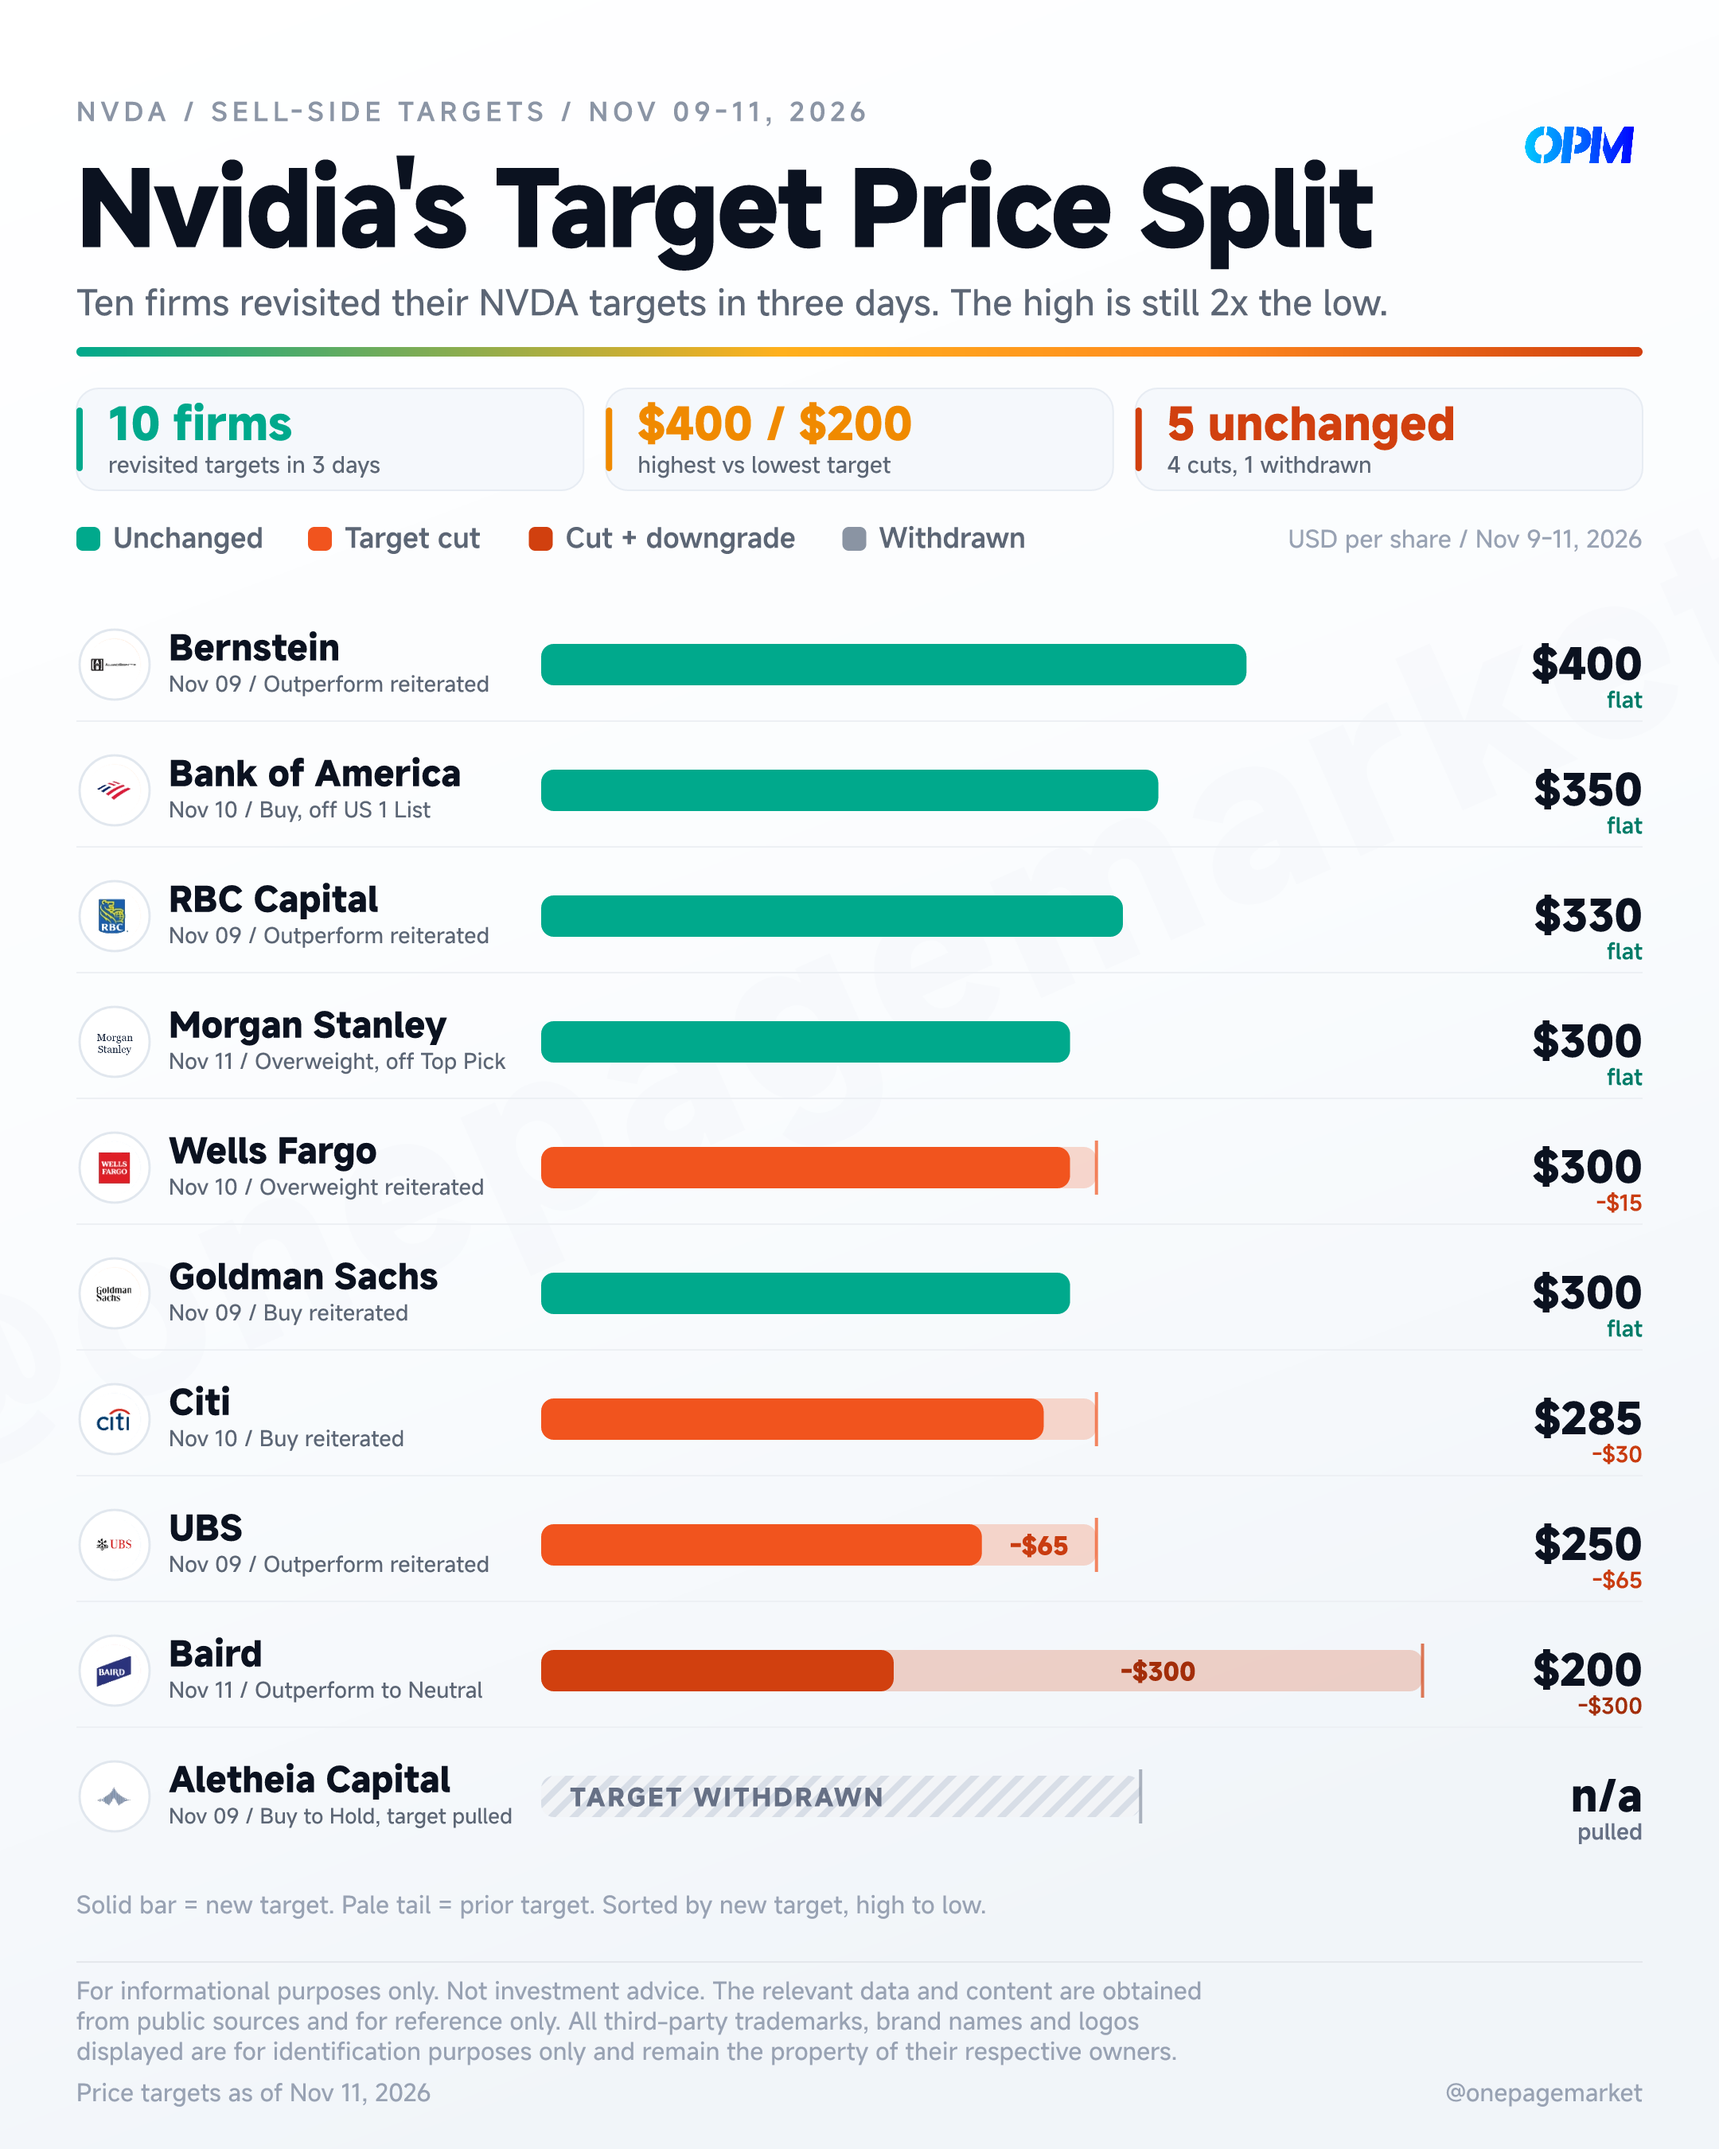
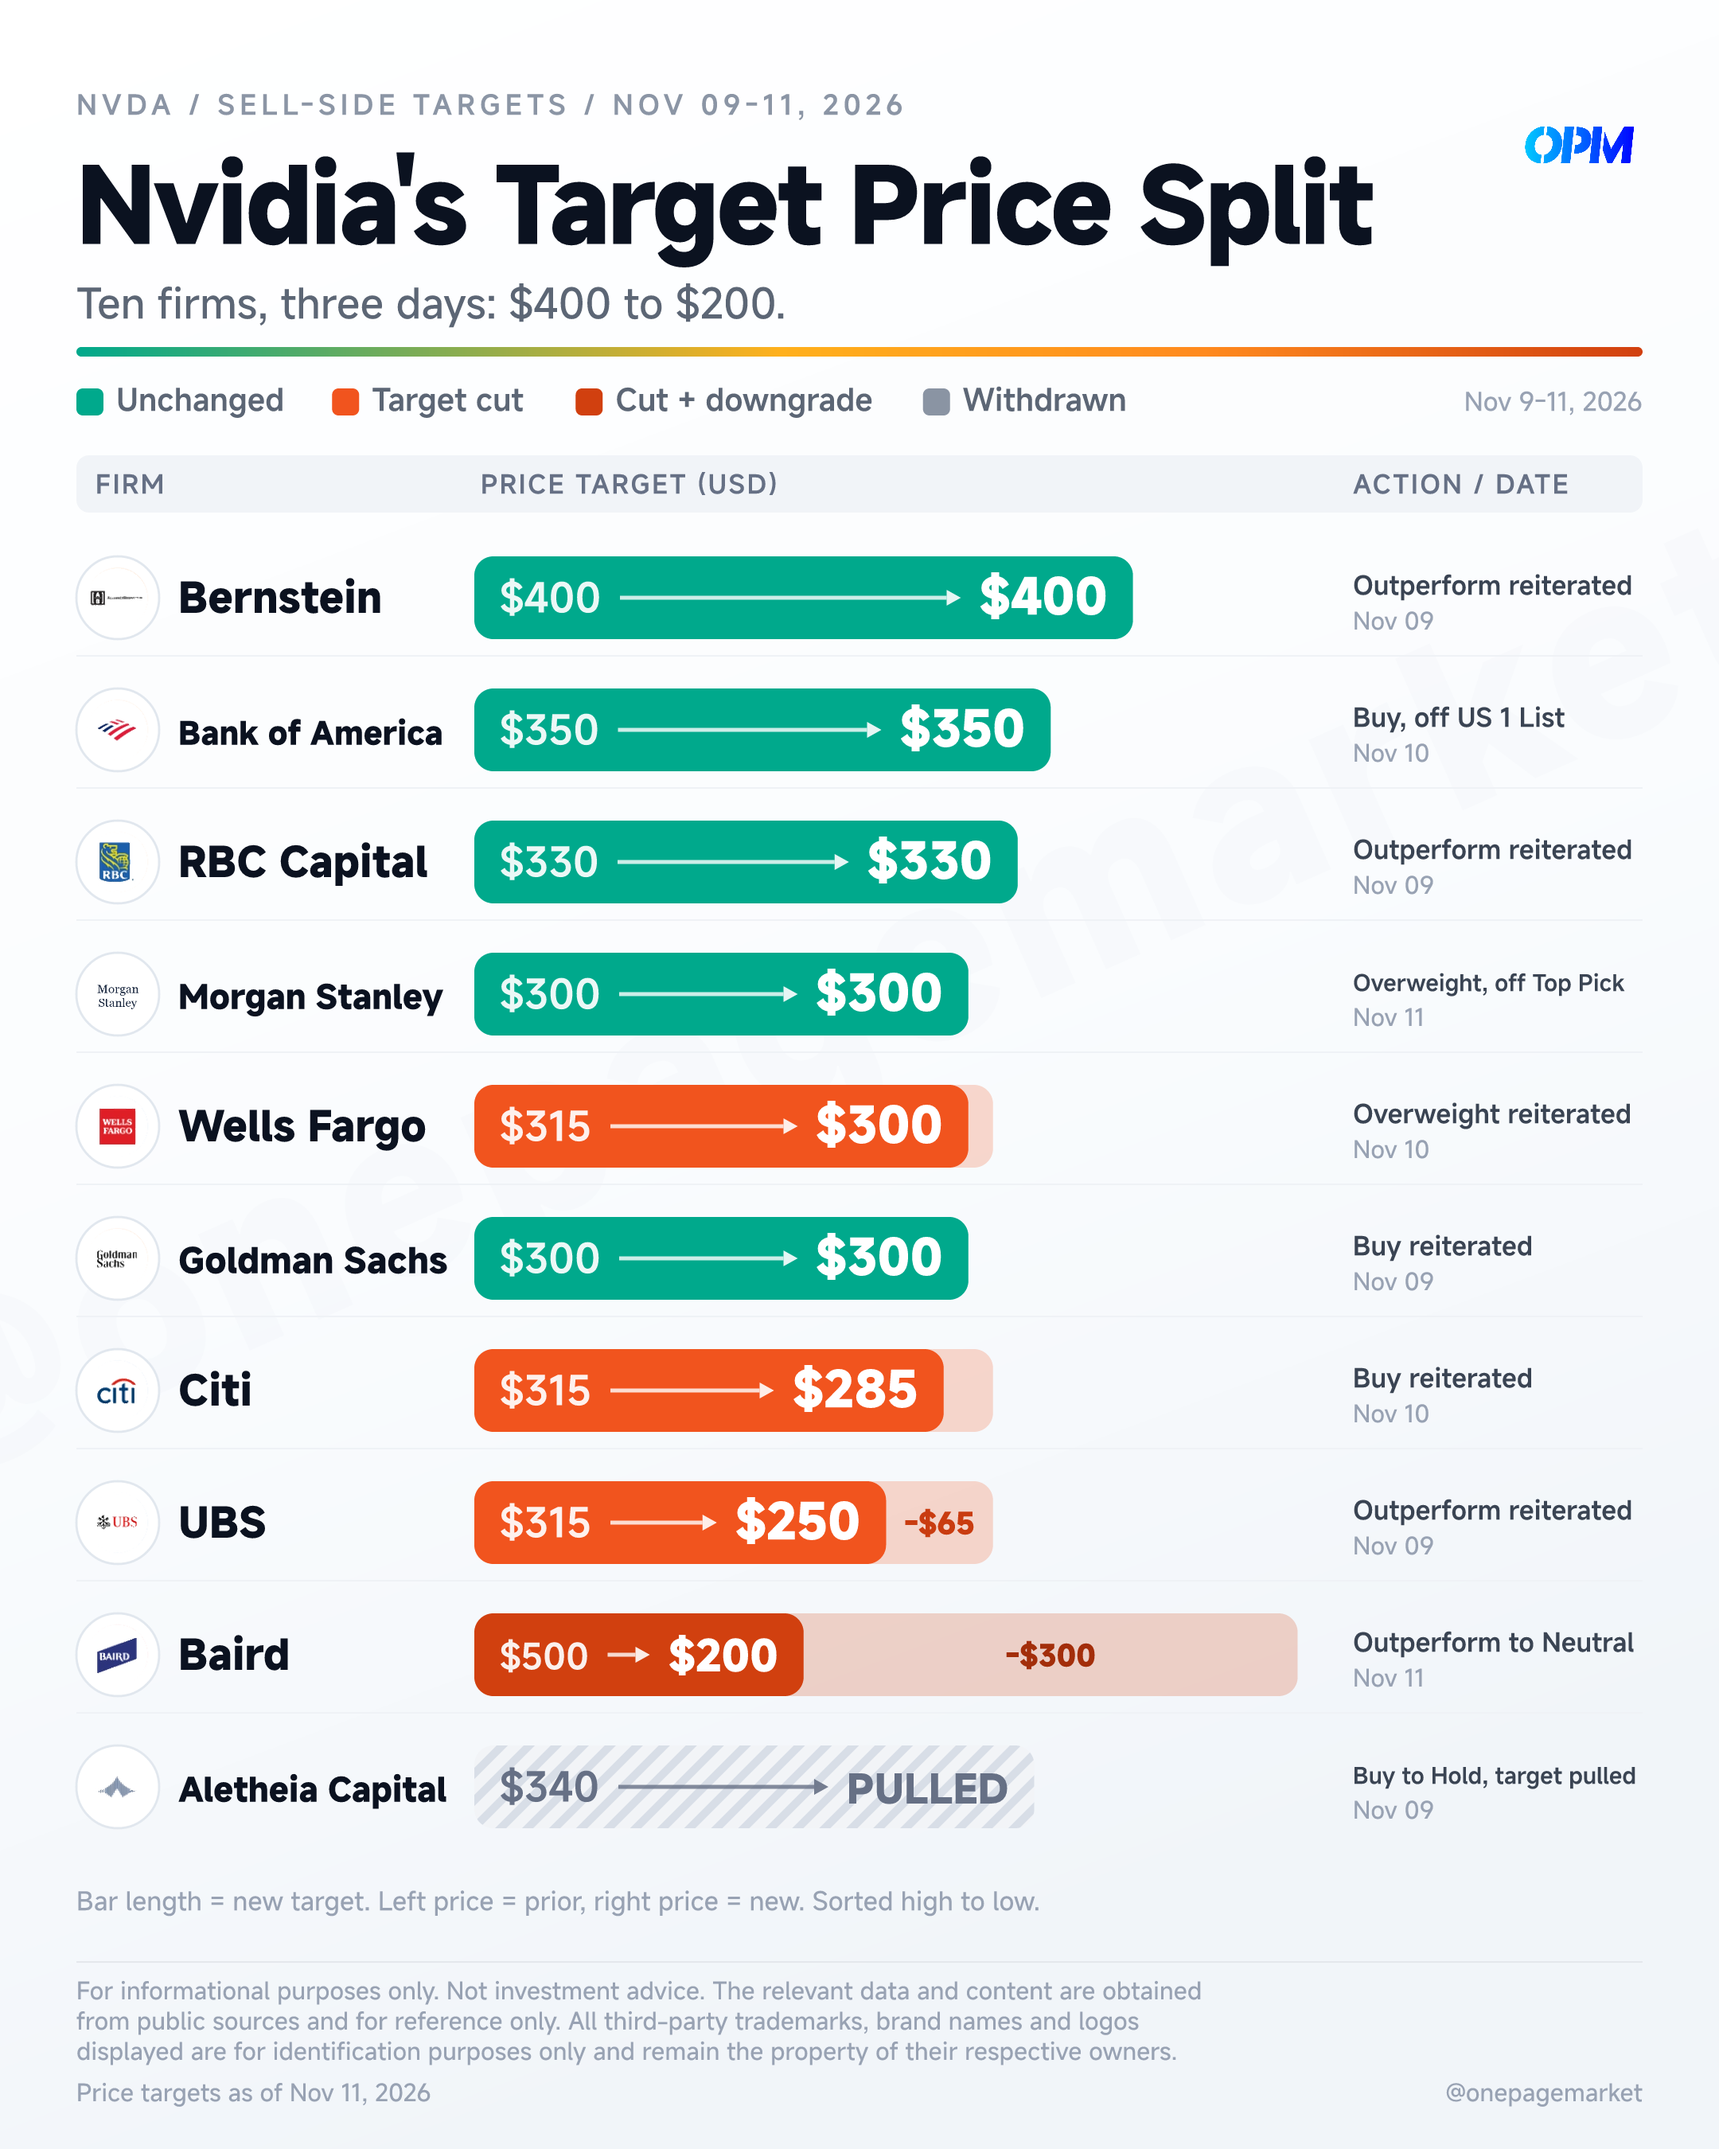
card: Nvidia target price split v2, Futu-style before/after bars

diff --git a/scripts/build_nvda_targets.js b/scripts/build_nvda_targets.js
@@ -2,9 +2,12 @@
  * OPM 專題卡 · Nvidia Sell-Side Price Targets (Nov 9-11, 2026) · 1080×1350
  *
  * 🔴 OPM 是純英文號：卡片上不出現任何中文；ASCII 為主，避免子集字體缺字。
- * 版式（2026-11-10 阿澤欽定「圖形化優先」）：右上 OPM 標識 + 3 顆 KPI 膠囊 +
- *   主圖＝10 家機構「舊目標價淡尾 / 新目標價實條」橫向對比（圓形機構 logo 徽章），
- *   底部小字註解 + 統一免責聲明。純淺色底。
+ * 版式（2026-11-12 阿澤改版指定）：
+ *   - 標題下不放三顆並列 KPI 膠囊（「毫無必要」）。
+ *   - 排版參考富途原圖：每列一個加粗大色條，條內左＝舊目標價、右＝新目標價、
+ *     中間箭頭，右側獨立欄放評級動作＋調整日期，一眼看出「舊→新」。
+ *   - 條高為初版 2 倍（26 → 52）；條長仍按新目標價縮放，露出的淡尾＝舊價多出的部分。
+ *   - 條尾不畫任何豎線刻度。字號全面放大。
  *
  * 數據：data/nvda-targets.json（轉譯自阿澤提供的富途牛牛機構目標價整理圖，
  *       原圖標註 Reuters / MarketBeat / Stock Analysis，2026-11-09 ~ 11-11）。
@@ -26,7 +29,7 @@ const D = JSON.parse(fs.readFileSync(path.join(BASE, 'data', 'nvda-targets.json'
 const W = 1080, H = 1350, M = 48, CW = W - M * 2;
 const C = {
   bg: '#FFFFFF', ink: '#0B1220', gray: '#5C6675', dim: '#98A2B3',
-  line: '#E4E7EC', body: '#3A4453', hair: '#EDF0F4',
+  line: '#E4E7EC', body: '#3A4453', hair: '#EFF2F6',
 };
 const FONT = 'MiSans';
 const handle = '@onepagemarket';
@@ -67,8 +70,8 @@ defs.push(`<linearGradient id="bgG" x1="0" y1="0" x2="0.3" y2="1">
 defs.push(`<linearGradient id="ruleG" x1="0" y1="0" x2="1" y2="0">
   <stop offset="0" stop-color="#00A98C"/><stop offset="0.45" stop-color="#FFB01C"/>
   <stop offset="0.72" stop-color="#FF8A1E"/><stop offset="1" stop-color="#D1400F"/></linearGradient>`);
-defs.push(`<pattern id="hatch" width="10" height="10" patternUnits="userSpaceOnUse" patternTransform="rotate(45)">
-  <rect width="10" height="10" fill="#F2F4F7"/><rect width="4" height="10" fill="#D8DEE7"/></pattern>`);
+defs.push(`<pattern id="hatch" width="12" height="12" patternUnits="userSpaceOnUse" patternTransform="rotate(45)">
+  <rect width="12" height="12" fill="#F2F4F7"/><rect width="5" height="12" fill="#D8DEE7"/></pattern>`);
 
 const a = [];
 a.push(`<svg xmlns="http://www.w3.org/2000/svg" width="${W}" height="${H}" viewBox="0 0 ${W} ${H}">`);
@@ -77,105 +80,114 @@ a.push(`<g transform="translate(${W / 2} ${H / 2}) rotate(-24)" opacity="0.03">
   ${t(0, 0, handle, { size: 132, weight: 700, anchor: 'middle', ls: 6, fill: '#94A3B8' })}</g>`);
 brandMark(a);
 
-/* ---------------- 頁首 ---------------- */
-a.push(t(M, 76, D.kicker, { size: 16, weight: 500, fill: '#8B95A5', ls: 3 }));
-const TS = 66, AVAIL_T = CW - 104;
-a.push(t(M, 154, D.title, { size: fit(D.title, TS, AVAIL_T), weight: 700, ls: -1.6 }));
-a.push(t(M, 198, D.subtitle, { size: fit(D.subtitle, 22, CW, 400), fill: C.gray }));
+/* ---------------- 頁首（無 KPI 膠囊） ---------------- */
+a.push(t(M, 72, D.kicker, { size: 17, weight: 500, fill: '#8B95A5', ls: 3 }));
+const TS = 76, AVAIL_T = CW - 104;
+a.push(t(M, 152, D.title, { size: fit(D.title, TS, AVAIL_T), weight: 700, ls: -1.6 }));
+a.push(t(M, 200, D.subtitle, { size: fit(D.subtitle, 26, CW, 400), fill: C.gray }));
 a.push(rr(M, 218, CW, 6, 3, 'url(#ruleG)'));
-
-/* ---------------- KPI 膠囊 ×3 ---------------- */
-{
-  const KY = 244, KH = 64, KG = 14, KW = (CW - KG * 2) / 3;
-  const accents = ['#00A98C', '#F08A00', '#D1400F'];
-  D.kpis.forEach((k, i) => {
-    const x = M + i * (KW + KG);
-    a.push(rr(x, KY, KW, KH, 14, '#F5F8FC', 'stroke="#E7ECF3" stroke-width="1"'));
-    a.push(rr(x, KY + 12, 4, KH - 24, 2, accents[i]));
-    a.push(t(x + 20, KY + 32, k.value, { size: 27, weight: 700, fill: accents[i] }));
-    a.push(t(x + 20, KY + 53, k.label, { size: fit(k.label, 14, KW - 34, 400), fill: C.gray }));
-  });
-}
 
 /* ---------------- 圖例 ---------------- */
 {
-  const y = 344;
+  const y = 258;
   let x = M;
   D.legend.forEach((it) => {
-    a.push(rr(x, y - 13, 15, 15, 4, it.color));
-    const sz = fit(it.label, 17, 190, 500);
-    a.push(t(x + 23, y, it.label, { size: sz, weight: 500, fill: C.gray }));
-    x += 23 + tw(it.label, sz, 500) + 28;
+    a.push(rr(x, y - 14, 17, 17, 4, it.color));
+    const sz = fit(it.label, 19, 200, 500);
+    a.push(t(x + 25, y, it.label, { size: sz, weight: 500, fill: C.gray }));
+    x += 25 + tw(it.label, sz, 500) + 30;
   });
-  a.push(t(W - M, y, D.legend_right, { size: 15, fill: C.dim, anchor: 'end' }));
+  a.push(t(W - M, y, D.legend_right, { size: 16, fill: C.dim, anchor: 'end' }));
 }
 
-/* ---------------- 主圖：10 條「舊→新」橫向對比 ---------------- */
-const ROW_Y0 = 380, ROW_H = 79, BH = 26;
-const BX0 = M + 292, BX1 = W - M - 116, BW = BX1 - BX0;
-const NAME_X = M + 58, NAME_W = BX0 - NAME_X - 16;
+/* ---------------- 表頭（富途式分欄） ---------------- */
+const ROW_Y0 = 334, ROW_H = 83, BH = 52;          // BH = 初版 26 的 2 倍
+const BX0 = M + 250, BX1 = W - M - 196, BW = BX1 - BX0;
+const NAME_X = M + 64, NAME_W = BX0 - NAME_X - 14;
+const ACT_X = BX1 + 14, ACT_W = W - M - ACT_X;
 const SCALE = D.scale_max;
+a.push(rr(M, 286, CW, 36, 8, '#F1F4F8'));
+a.push(t(M + 12, 310, D.table_head[0], { size: 16, weight: 500, fill: '#667085', ls: 1.2 }));
+a.push(t(BX0 + 4, 310, D.table_head[1], { size: 16, weight: 500, fill: '#667085', ls: 1.2 }));
+a.push(t(ACT_X, 310, D.table_head[2], { size: 16, weight: 500, fill: '#667085', ls: 1.2 }));
 
 function badge(cx, cy, key, color) {
-  const r = 22;
+  const r = 26;
   a.push(`<circle cx="${cx}" cy="${cy}" r="${r}" fill="#FFFFFF" stroke="#E1E7EE" stroke-width="1.4"/>`);
   const uri = FIRM_LOGO[key];
   if (uri) {
-    const s = 39;
+    const s = 45;
     a.push(`<image x="${cx - s / 2}" y="${cy - s / 2}" width="${s}" height="${s}" href="${uri}" image-rendering="optimizeQuality"/>`);
   } else {
-    a.push(t(cx, cy + 7, key.slice(0, 2).toUpperCase(), { size: 15, weight: 700, fill: color, anchor: 'middle' }));
+    a.push(t(cx, cy + 8, key.slice(0, 2).toUpperCase(), { size: 17, weight: 700, fill: color, anchor: 'middle' }));
+  }
+}
+
+/* 條內「舊價 → 新價」箭頭（純 SVG，不靠字體符號） */
+function arrow(x1, x2, cy, color, size) {
+  if (x2 - x1 >= 18) {
+    a.push(`<line x1="${x1.toFixed(1)}" y1="${cy}" x2="${(x2 - 9).toFixed(1)}" y2="${cy}" stroke="${color}" stroke-width="2.4" opacity="0.8"/>`);
+    a.push(`<polygon points="${(x2 - 9).toFixed(1)},${cy - 5} ${x2.toFixed(1)},${cy} ${(x2 - 9).toFixed(1)},${cy + 5}" fill="${color}" opacity="0.9"/>`);
+  } else {
+    a.push(t((x1 + x2) / 2, cy + 9, '>', { size, weight: 700, fill: color, anchor: 'middle' }));
   }
 }
 
 D.firms.forEach((f, i) => {
   const y0 = ROW_Y0 + i * ROW_H;
-  const cy = y0 + ROW_H / 2 - 2;
+  const cy = y0 + ROW_H / 2;
   const st = D.status[f.status];
   const oldW = f.old / SCALE * BW;
   const newW = f.new == null ? 0 : f.new / SCALE * BW;
   const by = cy - BH / 2;
+  const pulled = f.status === 'withdrawn';
 
-  badge(M + 24, cy, f.key, st.color);
-  a.push(t(NAME_X, cy - 3, f.name, { size: fit(f.name, 21, NAME_W, 700), weight: 700 }));
-  a.push(t(NAME_X, cy + 17, `${f.date} / ${f.action}`,
-    { size: fit(`${f.date} / ${f.action}`, 13.5, NAME_W, 400), fill: C.gray }));
+  /* 左：圓徽 + 機構名（大字，單行） */
+  badge(M + 26, cy, f.key, st.color);
+  a.push(t(NAME_X, cy + 9, f.name, { size: fit(f.name, 25, NAME_W, 700), weight: 700 }));
 
-  /* 舊目標價：淡尾（撤銷行改斜紋） */
-  const ghostFill = f.status === 'withdrawn' ? 'url(#hatch)' : st.color;
-  const ghostExtra = f.status === 'withdrawn' ? '' : `opacity="0.22"`;
-  a.push(rr(BX0, by, oldW.toFixed(1), BH, 8, ghostFill, ghostExtra));
-  /* 新目標價：實色條覆蓋 */
-  if (f.new != null) a.push(rr(BX0, by, newW.toFixed(1), BH, 8, st.color));
-  /* 舊價刻度：只有下調時才畫 */
-  if (f.old > (f.new || 0)) {
-    const gx = BX0 + oldW;
-    a.push(`<line x1="${gx.toFixed(1)}" y1="${by - 4}" x2="${gx.toFixed(1)}" y2="${by + BH + 4}" stroke="${st.color}" stroke-width="2" opacity="0.7"/>`);
+  /* 中：舊價淡尾 + 新價實條（加粗 2 倍），條尾不畫任何豎線 */
+  a.push(rr(BX0, by, oldW.toFixed(1), BH, 12, pulled ? 'url(#hatch)' : st.color,
+    pulled ? '' : 'opacity="0.22"'));
+  const barW = pulled ? oldW : newW;
+  if (!pulled) a.push(rr(BX0, by, barW.toFixed(1), BH, 12, st.color));
+
+  /* 條內數字：左舊價、右新價、中間箭頭 */
+  const ink = pulled ? st.ink : '#FFFFFF';
+  const oldStr = `$${f.old}`;
+  const newStr = pulled ? 'PULLED' : `$${f.new}`;
+  const narrow = barW < 240 && !pulled;   // 最窄的條略縮字級，讓箭頭仍能完整畫出
+  const nSize = pulled ? 24 : (narrow ? 26 : 30);
+  const oSize = narrow ? 22 : 25;
+  const nFit = fit(newStr, nSize, barW - 130, 700);
+  a.push(t(BX0 + 16, cy + 9, oldStr, { size: oSize, weight: 500, fill: ink, op: pulled ? 1 : 0.92 }));
+  a.push(t(BX0 + barW - 16, cy + 10, newStr,
+    { size: nFit, weight: 700, fill: ink, anchor: 'end' }));
+  arrow(
+    BX0 + 16 + tw(oldStr, oSize, 500) + 12,
+    BX0 + barW - 16 - tw(newStr, nFit, 700) - 12,
+    cy, ink, 22,
+  );
+
+  /* 淡尾上的降幅：只在夠寬時標，強化「變化」 */
+  const tailW = oldW - barW;
+  if (!pulled && tailW >= 62) {
+    a.push(t(BX0 + barW + tailW / 2, cy + 7, `-$${f.old - f.new}`,
+      { size: 18, weight: 700, fill: st.ink, anchor: 'middle' }));
   }
-  /* 大幅下調／撤銷：條上直接標字 */
-  const tailW = oldW - newW;
-  if (f.status === 'withdrawn') {
-    a.push(t(BX0 + 18, cy + 6, 'TARGET WITHDRAWN', { size: 15, weight: 700, fill: st.ink, ls: 1.4 }));
-  } else if (tailW >= 58) {
-    a.push(t(BX0 + newW + tailW / 2, cy + 6, `-$${f.old - f.new}`,
-      { size: 15, weight: 700, fill: st.ink, anchor: 'middle' }));
-  }
 
-  /* 右側：新目標價 + 變化 */
-  a.push(t(W - M, cy + 9, f.new == null ? 'n/a' : `$${f.new}`,
-    { size: 26, weight: 700, anchor: 'end' }));
-  const delta = f.status === 'same' ? 'flat'
-    : f.status === 'withdrawn' ? 'pulled'
-      : `-$${f.old - f.new}`;
-  a.push(t(W - M, cy + 27, delta, { size: 13.5, weight: 500, fill: st.ink, anchor: 'end' }));
+  /* 右：評級／動作 + 調整日期（富途式獨立欄） */
+  a.push(t(ACT_X, cy - 2, f.action,
+    { size: fit(f.action, 16, ACT_W, 500), weight: 500, fill: C.body }));
+  a.push(t(ACT_X, cy + 20, f.date, { size: 15, fill: C.dim }));
 
   if (i < D.firms.length - 1) {
-    a.push(`<line x1="${M}" y1="${y0 + ROW_H - 6}" x2="${W - M}" y2="${y0 + ROW_H - 6}" stroke="${C.hair}" stroke-width="1"/>`);
+    a.push(`<line x1="${M}" y1="${y0 + ROW_H - 5}" x2="${W - M}" y2="${y0 + ROW_H - 5}" stroke="${C.hair}" stroke-width="1"/>`);
   }
 });
 
 /* ---------------- 註解 + 頁腳 ---------------- */
-a.push(t(M, 1202, D.footnote, { size: 15, fill: C.dim }));
+a.push(t(M, 1200, D.footnote, { size: 16, fill: C.dim }));
 pushFooter(t, a, { M, W, H, C: { line: C.line, dim: C.dim }, meta: D.asof, handle });
 
 a.push('</svg>');
